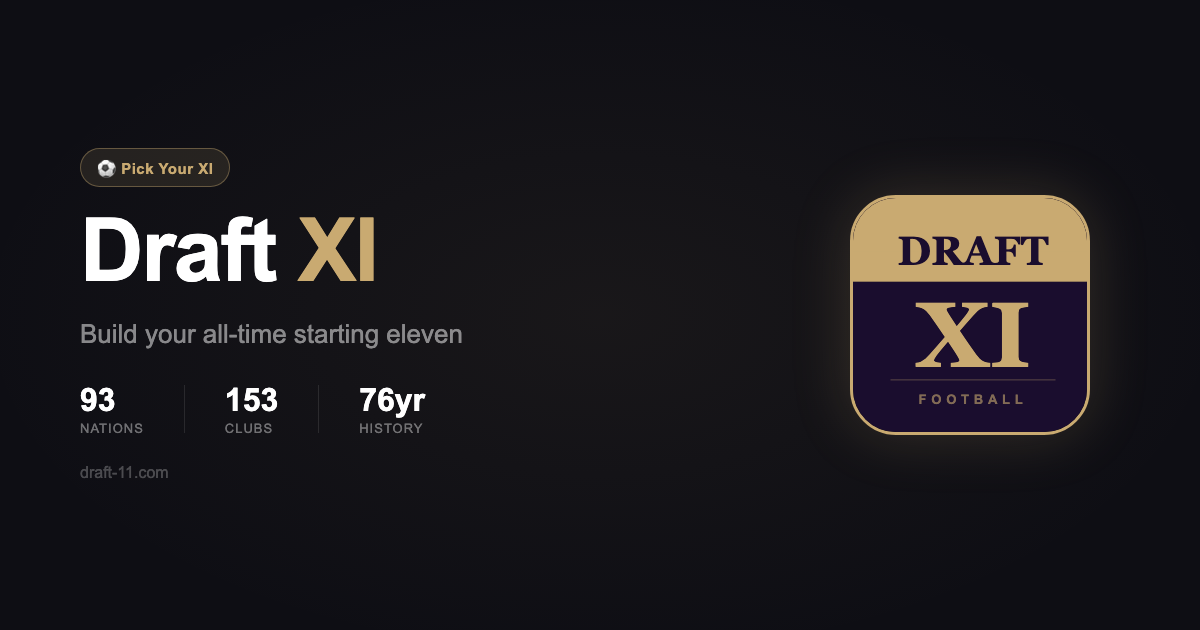
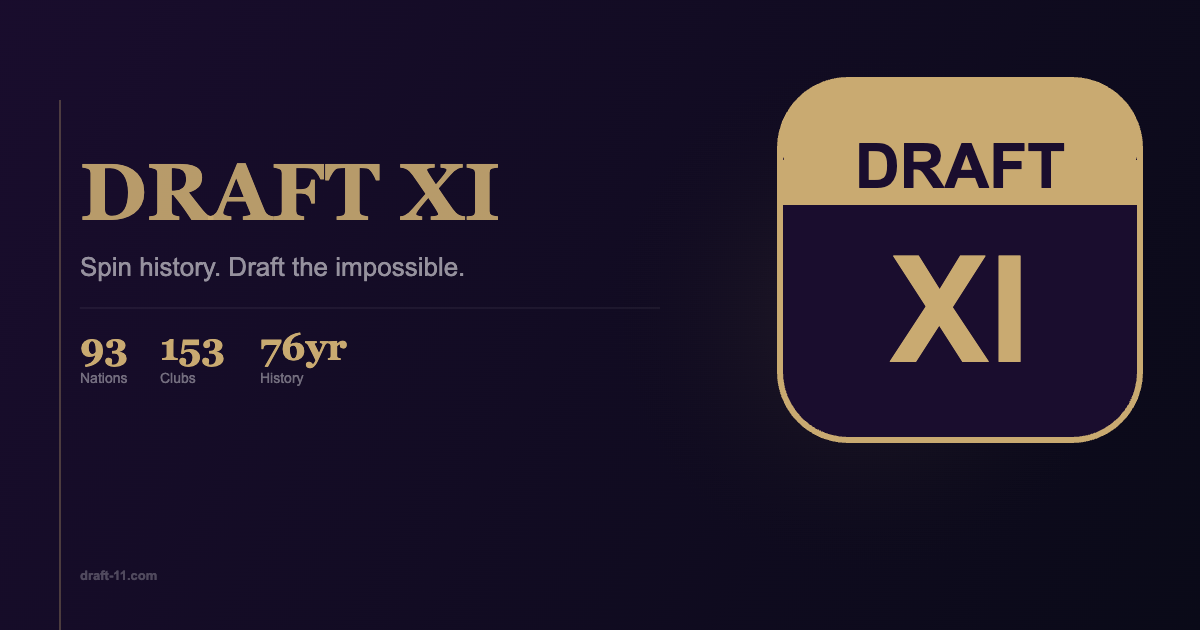
fix: update OG image tagline to "Spin history. Draft the impossible."
Regenerated og-image.png with new tagline. Updated icon-gen.html source.

diff --git a/icon-gen.html b/icon-gen.html
@@ -126,7 +126,7 @@ function renderOG(canvasId) {
 
     ctx.fillStyle = 'rgba(255,255,255,0.55)';
     ctx.font = '400 26px Arial, sans-serif';
-    ctx.fillText('Pick your XI. Build your legacy.', 80, 276);
+    ctx.fillText('Spin history. Draft the impossible.', 80, 276);
 
     // Divider
     ctx.strokeStyle = 'rgba(255,255,255,0.1)';
